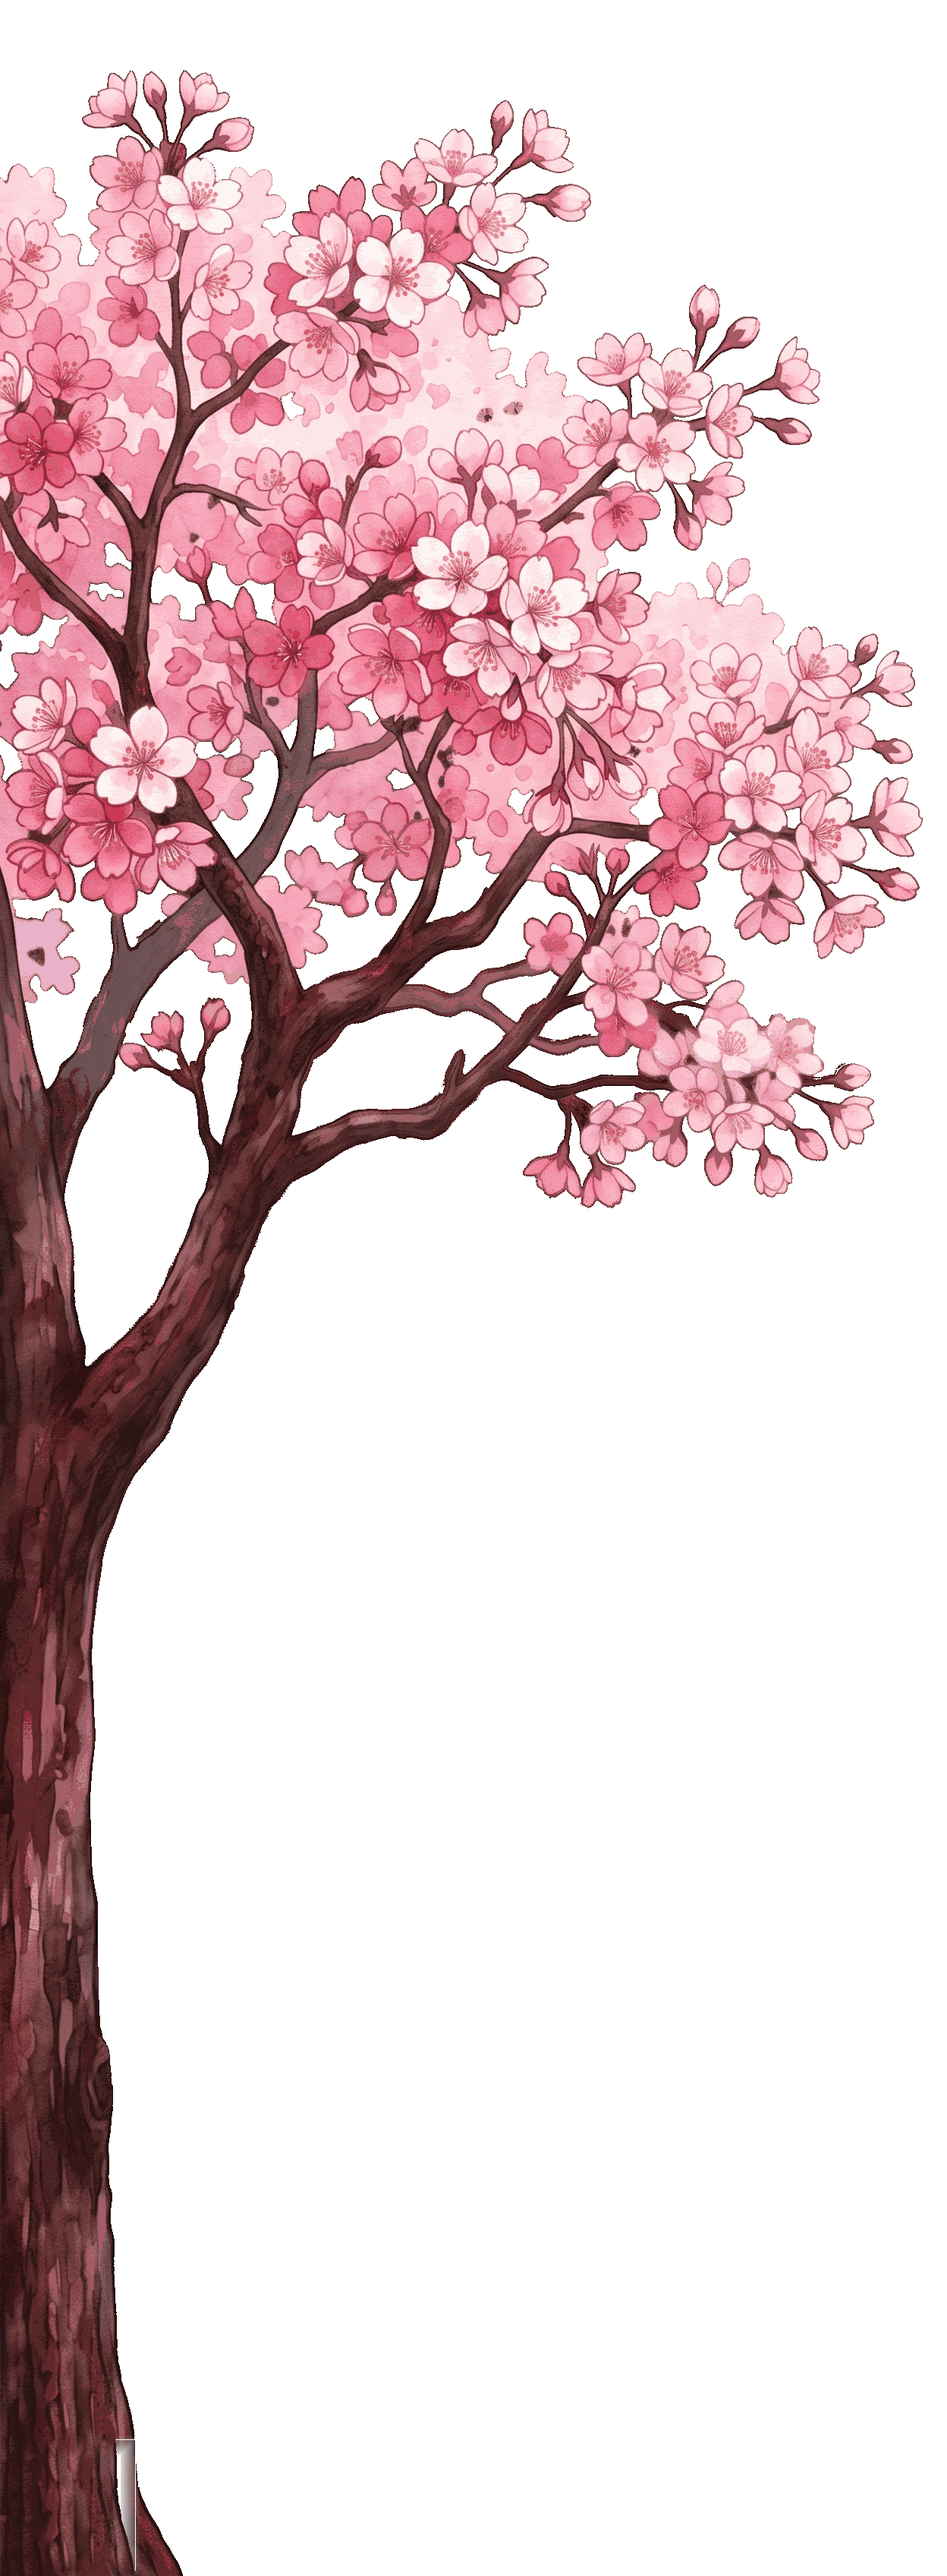
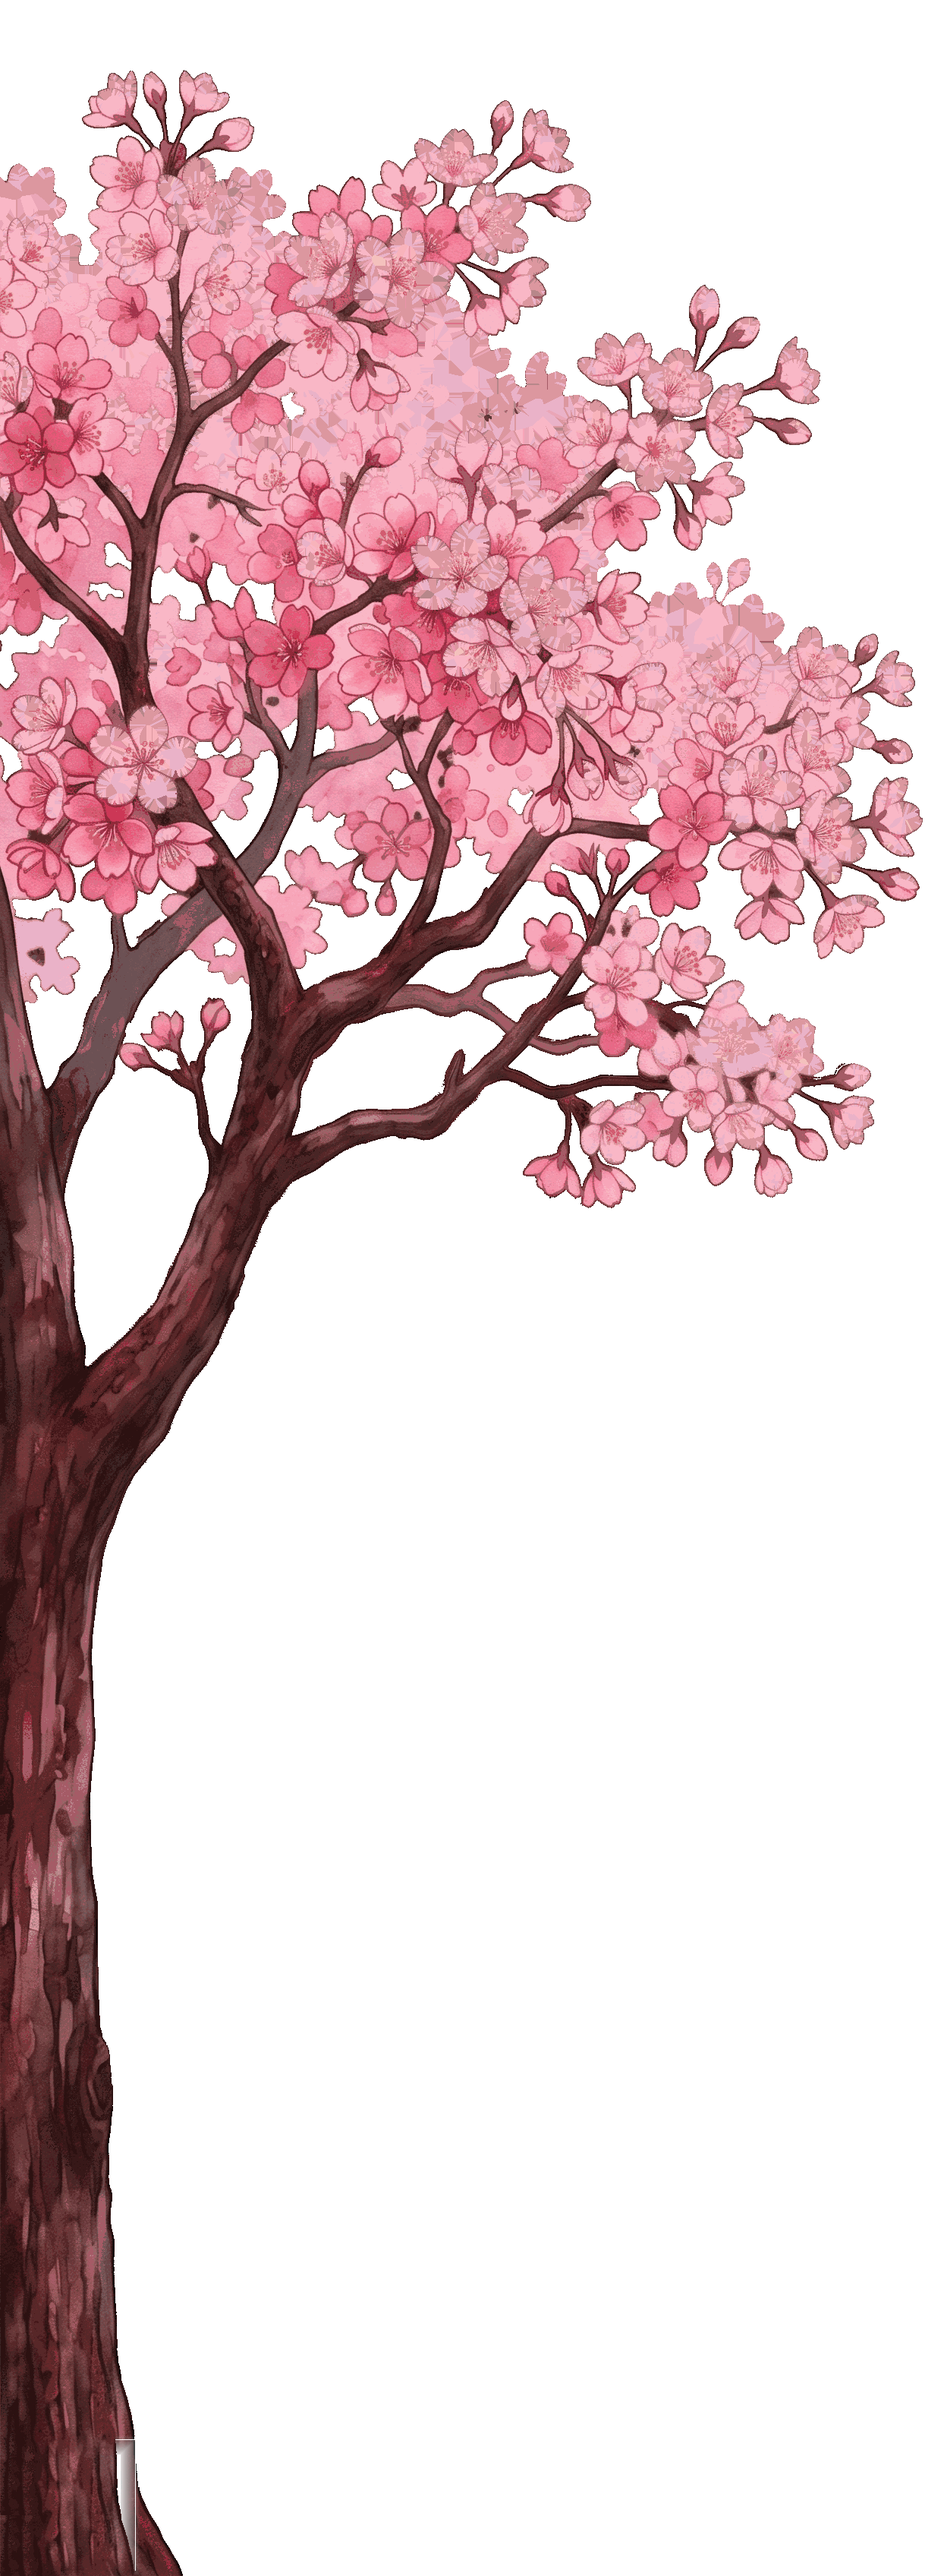
fix: sakura_tree 흰색 얼룩 제거 + 레일 갭/stroke 벚꽃 accent
1) 트리 흰색 얼룩 제거 (scripts/fix_tree_white.py)
   - 원본 Gemini 이미지의 trunk/branch 하이라이트 흰색 (R,G,B 195+) 298K/290K 픽셀
   - distance_transform_edt 로 가장 가까운 non-white opaque RGB 복사 → 주변 나무색으로 교체
   - trunk 흰색 → brown, 꽃 근처 흰색 → pink 자연스럽게
   - quantize 64 → 128 colors 로 상승 (색 손실 감소)
   - 백업: versions/sakura_tree_pre_white_v1/

2) 레일-테두리 갭 채움 — 벚꽃 accent gradient
   - 기존 bark gradient 재활용은 눈에 안 띔 → 별도 로즈-핑크 수직 gradient stripe
   - 상단 연한 벚꽃 핑크 → 중상 로즈 → 중하 bark → 하단 trunk 4-stop

3) 레일 양끝 stroke — 수직 그라데이션
   - 기존 solid #8a4535 → vertical gradient (#d97a95 상단 → #a8534a → #6b3027 → #3d1a14)
   - 캐노피 핑크에서 bark 로 자연 transition, 단색 line 의 촌스러움 제거

diff --git a/index.html b/index.html
@@ -13,7 +13,7 @@
 <script>
 // ★ 빌드 타임스탬프 — 매 index.html 업데이트 시 자동 증가. 업데이트 감지용.
 // diag: gamble revert + 업데이트 감지 진단 강화 (__BUILD_TS 선곡화면 노출)
-window.__BUILD_TS = 20260424183811;
+window.__BUILD_TS = 20260424184414;
 // ★ Firebase goOffline 부작용 — 인게임 진입 시 fbDb.goOffline() 호출하면 in-flight 중이던
 //   .set()/.once() Promise 들이 "Error: disconnect" 로 reject. 모두 fire-and-forget (결과 무관)
 //   이라 의도된 현상이지만 .catch 없이 쏘고 있어 "Uncaught (in promise)" 경고 스팸 발생.
@@ -9294,12 +9294,24 @@ function renderBackplate() {
     // 외곽 (화면 가장자리 ~ outerX/outerR) 채움
     if (outerX > 0) ctx.fillRect(0, -safeTop, outerX, _vh);
     if (outerR < W) ctx.fillRect(outerR, -safeTop, W - outerR, _vh);
-    // ★ 레일-테두리 갭 (outerX ~ lsx, lsx+totalLW ~ outerR) 도 같은 bark gradient 로 채움.
-    //    solid body 가 skip 되면서 비어있던 영역. 자연스러운 색 transition.
+    // ★ 레일-테두리 갭 (outerX ~ lsx, lsx+totalLW ~ outerR) — bark 말고 벚꽃 accent 로 채움.
+    //    solid body skip 으로 비어있던 gap. 단색 테두리 대신 로즈-핑크 수직 그라데이션 stripe
+    //    으로 트리 캐노피와 톤 연결. 시각적으로 또렷하게 "꽃 띠" 느낌.
     const _gapL = lsx - outerX;
     const _gapR = outerR - (lsx + totalLW);
-    if (_gapL > 0) ctx.fillRect(outerX, -safeTop, _gapL, _vh);
-    if (_gapR > 0) ctx.fillRect(lsx + totalLW, -safeTop, _gapR, _vh);
+    if (_gapL > 0 || _gapR > 0) {
+      if (!window._sakuraGapGradCache || window._sakuraGapGradCache._h !== _vh) {
+        const gg = ctx.createLinearGradient(0, -safeTop, 0, H + safeBottom);
+        gg.addColorStop(0, 'rgba(255,180,200,0.55)');   // 상단 연한 벚꽃 핑크
+        gg.addColorStop(0.35, 'rgba(210,110,140,0.6)'); // 중상 로즈
+        gg.addColorStop(0.7, 'rgba(138,69,53,0.75)');   // 중하 bark 로즈브라운 (frameBorder tone)
+        gg.addColorStop(1, 'rgba(80,35,30,0.85)');      // 하단 진한 trunk
+        window._sakuraGapGradCache = { g: gg, _h: _vh };
+      }
+      ctx.fillStyle = window._sakuraGapGradCache.g;
+      if (_gapL > 0) ctx.fillRect(outerX, -safeTop, _gapL, _vh);
+      if (_gapR > 0) ctx.fillRect(lsx + totalLW, -safeTop, _gapR, _vh);
+    }
 
     // ★ 좌측 벚꽃 나무 — 레일 쪽으로 shift (이미지 우측 일부가 playfield 로 살짝 들어감)
     //   세로 1.25배 stretch → 캐노피가 상단으로 overflow 해서 더 풍성해보임.
@@ -9472,16 +9484,26 @@ function renderBackplateBorder() {
   ctx.lineCap = 'square';
   ctx.lineJoin = 'miter';
 
-  // UI 팩 테마 — 외곽 프레임 이중 stroke (와인 메인 + 안쪽 핑크 하이라이트 + 외부 glow).
+  // UI 팩 테마 — 벚꽃 모드에선 수직 그라데이션 stroke (캐노피 핑크 → bark 갈색).
   const _ui = _getUiPack();
   const _mainColor = _ui ? (_ui.frameBorder || pal.border) : pal.border;
   const _innerColor = _ui ? (_ui.frameInner || null) : null;
   const _glowColor = _ui ? (_ui.frameGlow || null) : null;
 
+  let _sakuraStrokeGrad = null;
+  if (_ui) {
+    // 수직 그라데이션 — 레일 양끝 라인에 자연 색 transition
+    _sakuraStrokeGrad = ctx.createLinearGradient(0, outerY, 0, outerB);
+    _sakuraStrokeGrad.addColorStop(0, '#d97a95');   // 상단 로즈 (캐노피)
+    _sakuraStrokeGrad.addColorStop(0.35, '#a8534a'); // 중상 rose-bark
+    _sakuraStrokeGrad.addColorStop(0.7, '#6b3027');  // 중하 진한 bark
+    _sakuraStrokeGrad.addColorStop(1, '#3d1a14');    // 하단 trunk
+  }
+
   // 헬퍼: 수직 segment — 단일 stroke (네온 glow 제거, 두께 축소).
   const _mainW  = _ui ? sz(2.5) : sz(7);
   const _drawVSeg = (x, y0, y1) => {
-    ctx.strokeStyle = _mainColor;
+    ctx.strokeStyle = _sakuraStrokeGrad || _mainColor;
     ctx.lineWidth = _mainW;
     ctx.beginPath(); ctx.moveTo(x, y0); ctx.lineTo(x, y1); ctx.stroke();
   };

diff --git a/scripts/fix_tree_white.py b/scripts/fix_tree_white.py
@@ -1,0 +1,71 @@
+"""
+sakura_tree 의 흰색 얼룩을 주변 non-white 색으로 교체.
+
+원본 Gemini 이미지가 trunk 에 강한 흰색 하이라이트를 넣어서
+유저가 "나무색이 하얗게 된 부분" 으로 인지.
+
+알고리즘:
+1. mask_white = R,G,B 모두 195+ AND alpha > 50 (밝은 흰색 계열)
+2. 각 white pixel 에 대해 distance_transform_edt 로 가장 가까운 non-white opaque pixel RGB 복사
+3. alpha 는 유지
+
+trunk 의 흰색 → 가까운 brown 으로 교체
+꽃 근처 흰색 → 가까운 pink 로 교체 (자연)
+
+백업: pre_holefill_v2 와 별도로 pre_white_v1 에 저장.
+"""
+import os
+import shutil
+import numpy as np
+from PIL import Image
+from scipy.ndimage import distance_transform_edt
+
+ROOT = r'D:\nanorhythm-assets\nanorhythm-assets'
+CONTAINER = os.path.join(ROOT, 'skins', 'neon', 'container')
+BACKUP_DIR = os.path.join(ROOT, 'versions', 'sakura_tree_pre_white_v1')
+os.makedirs(BACKUP_DIR, exist_ok=True)
+
+WHITE_FLOOR = 195
+
+for name in ['left', 'right']:
+    src = os.path.join(CONTAINER, f'sakura_tree_{name}.png')
+    backup = os.path.join(BACKUP_DIR, f'sakura_tree_{name}.png')
+    if not os.path.exists(backup):
+        shutil.copy(src, backup)
+        print(f'backup: {backup}')
+
+    img = Image.open(src).convert('RGBA')
+    arr = np.array(img)
+    h, w = arr.shape[:2]
+    print(f'\n{name}: {w}x{h}, orig {os.path.getsize(src)/1024:.0f} KB')
+
+    a = arr[:, :, 3]
+    r, g, b = arr[:, :, 0], arr[:, :, 1], arr[:, :, 2]
+    # 흰색 계열
+    white = (r >= WHITE_FLOOR) & (g >= WHITE_FLOOR) & (b >= WHITE_FLOOR) & (a > 50)
+    n_white = int(white.sum())
+    # non-white opaque (교체 소스)
+    non_white_opaque = (~white) & (a > 50)
+    print(f'  white: {n_white} px, non-white opaque: {int(non_white_opaque.sum())} px')
+
+    if n_white > 0 and non_white_opaque.any():
+        # 각 pixel 에 대해 가장 가까운 non-white-opaque index
+        _, (iy, ix) = distance_transform_edt(~non_white_opaque, return_indices=True)
+        wy, wx = np.where(white)
+        src_y = iy[wy, wx]
+        src_x = ix[wy, wx]
+        arr[wy, wx, 0] = arr[src_y, src_x, 0]
+        arr[wy, wx, 1] = arr[src_y, src_x, 1]
+        arr[wy, wx, 2] = arr[src_y, src_x, 2]
+        # alpha 유지
+        print(f'  replaced {n_white} white px with nearest non-white color')
+
+    # quantize — 128 컬러로 올려서 색 손실 줄임
+    img2 = Image.fromarray(arr, 'RGBA')
+    rc, gc, bc, ac = img2.split()
+    rgb = Image.merge('RGB', (rc, gc, bc))
+    p = rgb.quantize(colors=128, method=2)
+    rgb_q = p.convert('RGB')
+    final = Image.merge('RGBA', (*rgb_q.split(), ac))
+    final.save(src, optimize=True, compress_level=9)
+    print(f'  saved: {os.path.getsize(src)/1024:.0f} KB')
